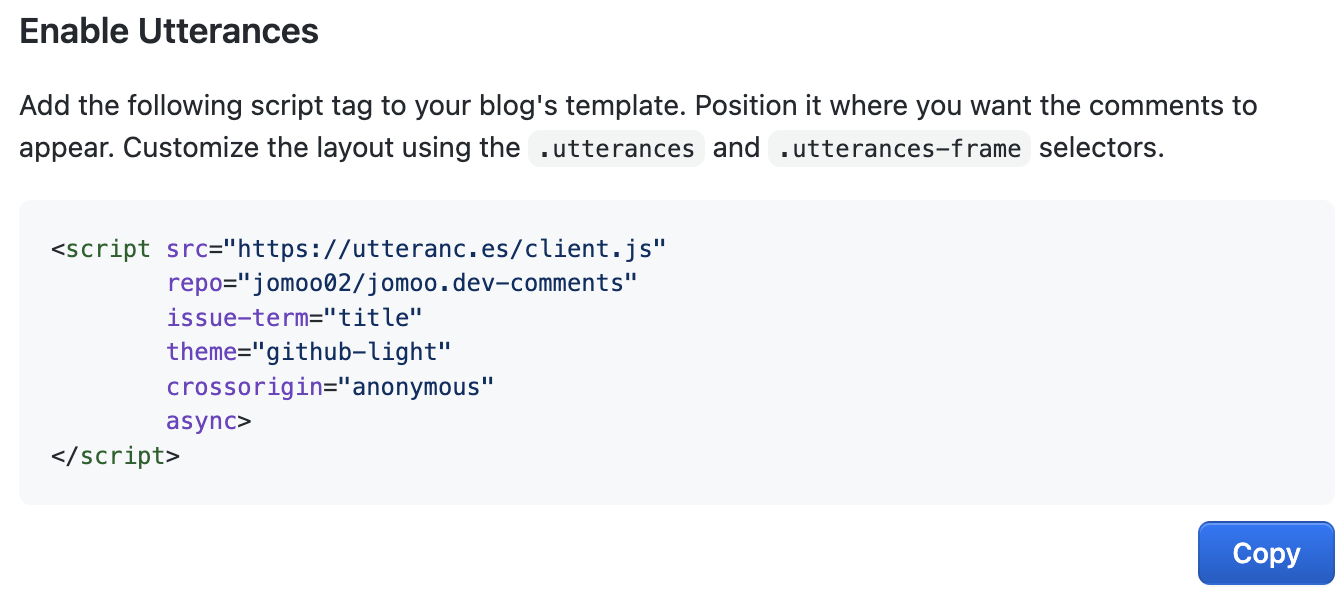
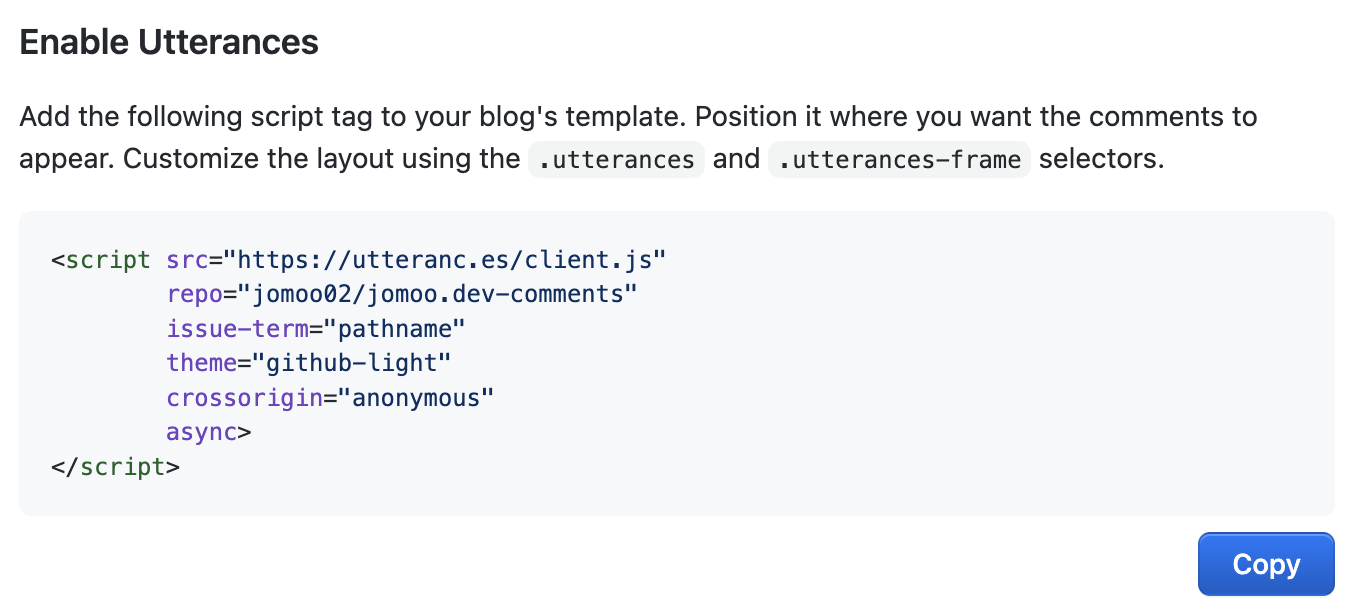
post: projects/jomoodev/7.feat-comments

diff --git a/components/Comments.vue b/components/Comments.vue
@@ -4,7 +4,7 @@ const utterancMap = [
   { attribute: 'src', value: 'https://utteranc.es/client.js' },
   { attribute: 'async', value: true },
   { attribute: 'crossorigin', value: 'anonymous' },
-  { attribute: 'issue-term', value: 'title' },
+  { attribute: 'issue-term', value: 'pathname' },
   { attribute: 'repo', value: 'jomoo02/jomoo.dev-comments' },
   { attribute: 'theme', value: 'github-light' },
 ];
